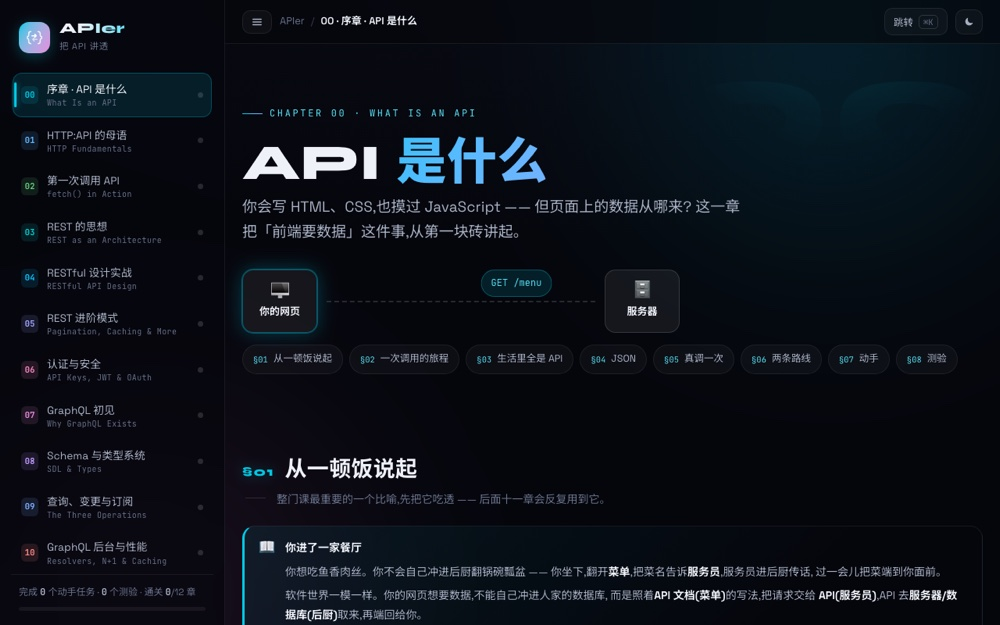
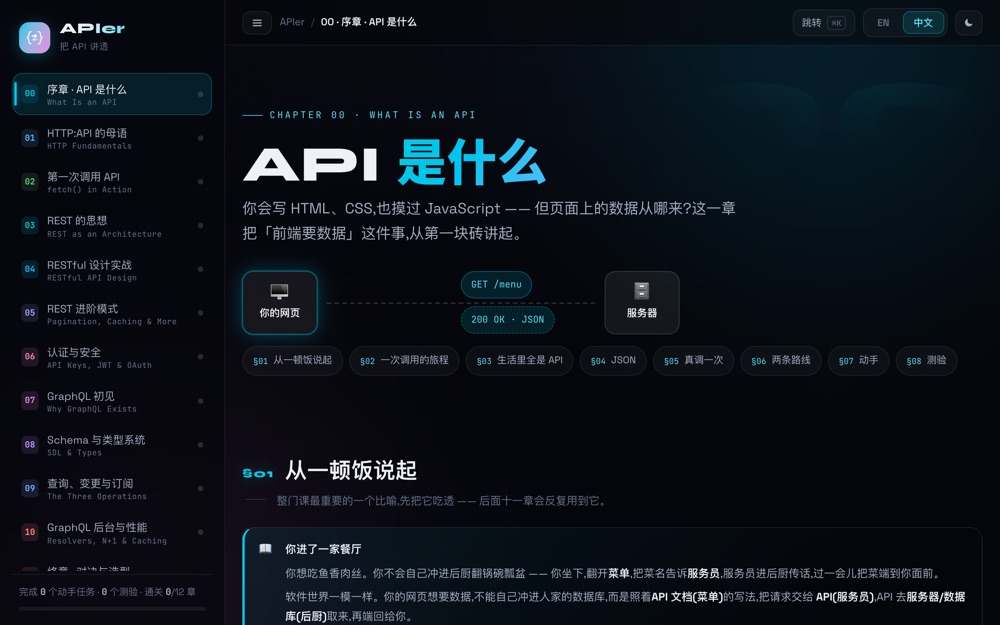
Reshoot the README screenshots and update the README after the audit
All three screenshots predated the fixes: the inspector showed Chinese
seed data and 'network' timing, chapter 01 showed api.shop.com and the
line-break spaces in Chinese, and the home page showed truncated
sidebar subtitles. They are reshot with the original framing. The text
names the in-browser timing, the chapter title layouts, the self-hosted
fonts and the language-aware mock, and links to the changelog.

diff --git a/README.md b/README.md
@@ -18,7 +18,7 @@ Sister sites: [DataData](https://data-data.vercel.app) (data structures) and
 
 ![The request inspector: a real round trip to the in-browser mock API, with status, timing, headers and body](docs/inspector.jpg)
 
-*The request inspector — the mock API runs in your own browser through a Service Worker, so the round trip is real: status, server and network timing, twelve response headers, the body, and the curl you would type instead.*
+*The request inspector — the mock API runs in your own browser through a Service Worker, so the round trip is real: status, the server and in-browser timing, twelve response headers, the body, and the curl you would type instead.*
 
 ## Chapters
 
@@ -68,13 +68,16 @@ npm run build
 Next.js 15 (App Router) + TypeScript + React 19, plain CSS. Every chapter prerenders to a
 static page.
 
-Each chapter is one folder under `app/` holding its page, its visualizations (`viz.tsx`) and
-its own stylesheet, paired with a data file under `lib/` for quizzes and exercises.
+Each chapter is one folder under `app/` holding its page, a small server layout that gives
+the page its title, its visualizations (`viz.tsx`) and its own stylesheet, paired with a
+data file under `lib/` for quizzes and exercises. The fonts are self-hosted from
+`app/fonts`, so a build needs no network.
 
 ## The mock API
 
 Chapters 01, 04, 05, 06 and 10 embed a request inspector that sends real HTTP requests and
-shows the status, headers, timing breakdown, body size and payload.
+shows the status, headers, timing breakdown, body size and payload. The mock's messages
+follow the interface language (it reads `Accept-Language`); its data is the same in both.
 
 Those requests go to `/mock-api`, which is served by a **Service Worker inside your own
 browser**, backed by IndexedDB. Your data is yours: nobody else can see or change it, it
@@ -86,7 +89,8 @@ clone the repository and run `npm run dev`, which exposes the server-side equiva
 `http://localhost:3300/api`. That endpoint is disabled on shared hosting so visitors never
 share mutable state.
 
-See [docs/mock-api.md](docs/mock-api.md) for the full picture.
+See [docs/mock-api.md](docs/mock-api.md) for the full picture, and
+[CHANGELOG.md](CHANGELOG.md) for the fixes that followed the October 2026 audit.
 
 ---
 
